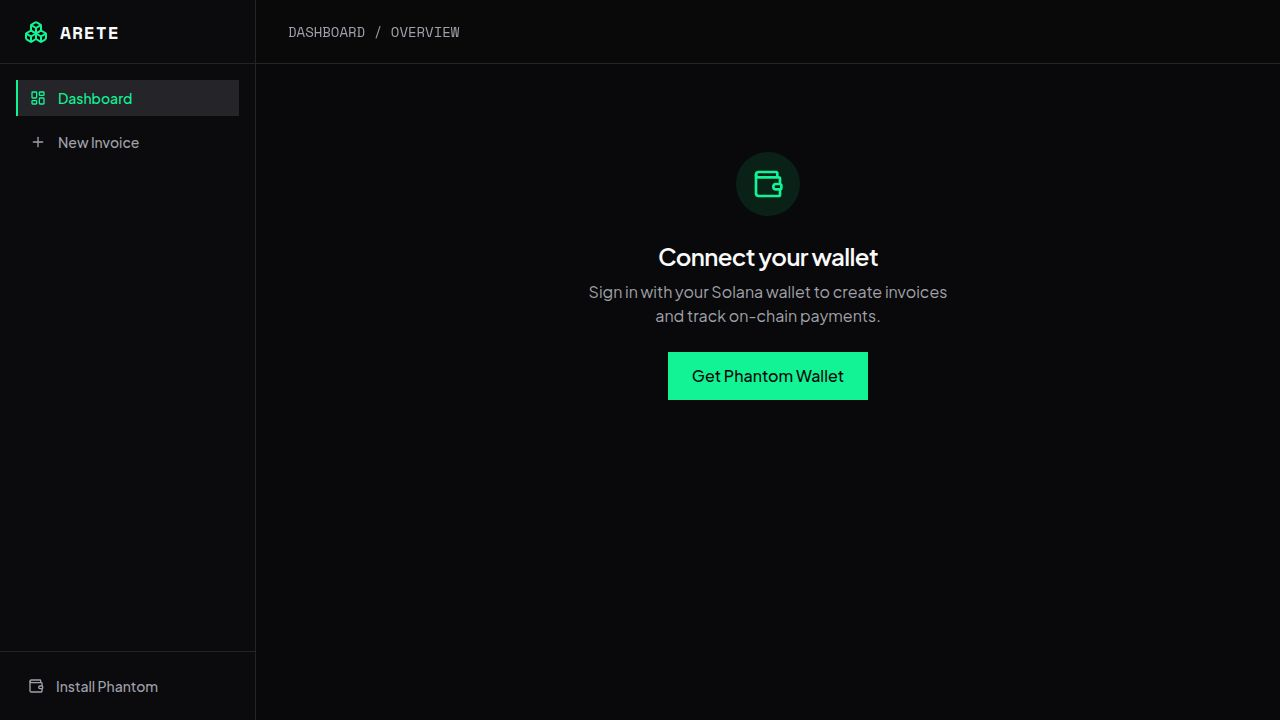
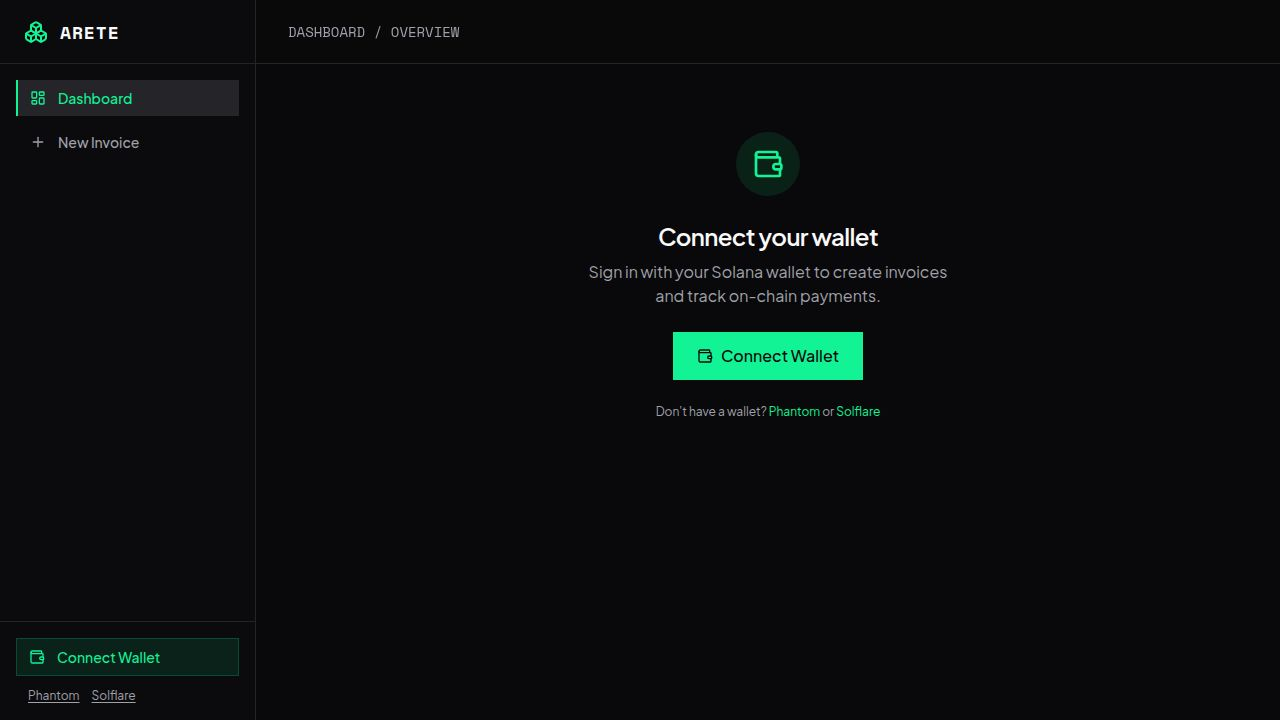
Improve login system by switching to token-based authentication
Update API and frontend to use localStorage and Bearer tokens for authentication, replacing unreliable cookie-based auth, especially for mobile browsers.

Replit-Commit-Author: Agent
Replit-Commit-Session-Id: 21984e5d-962c-4386-b513-6f671c9b777a
Replit-Commit-Checkpoint-Type: full_checkpoint
Replit-Commit-Event-Id: d4c9bc04-cd3d-4d1d-9eb7-5a2b5161e72c
Replit-Commit-Screenshot-Url: https://storage.googleapis.com/screenshot-production-us-central1/1e1901e2-4597-46dc-acf6-8f4fa4448a09/21984e5d-962c-4386-b513-6f671c9b777a/lG06eTP
Replit-Helium-Checkpoint-Created: true

Changed region(s): [[0.4688, 0.1833, 0.75, 0.5806], [0.0, 0.8861, 0.1875, 0.9778]]

diff --git a/artifacts/arete/src/contexts/AuthContext.tsx b/artifacts/arete/src/contexts/AuthContext.tsx
@@ -7,7 +7,7 @@ import {
   type ReactNode,
 } from "react";
 import { useQueryClient } from "@tanstack/react-query";
-import { getGetMeQueryKey } from "@workspace/api-client-react";
+import { getGetMeQueryKey, setAuthTokenGetter } from "@workspace/api-client-react";
 
 type SolanaProvider = {
   connect: (opts?: { onlyIfTrusted?: boolean }) => Promise<{ publicKey: { toBase58: () => string } }>;
@@ -24,6 +24,8 @@ declare global {
   }
 }
 
+const TOKEN_KEY = "arete_token";
+
 function getProvider(): SolanaProvider | null {
   if (window.phantom?.solana) return window.phantom.solana;
   if (window.solflare?.isSolflare) return window.solflare;
@@ -34,6 +36,28 @@ function toHex(bytes: Uint8Array): string {
   return Array.from(bytes)
     .map((b) => b.toString(16).padStart(2, "0"))
     .join("");
+}
+
+function saveToken(token: string): void {
+  try {
+    localStorage.setItem(TOKEN_KEY, token);
+  } catch {}
+  setAuthTokenGetter(() => token);
+}
+
+function clearToken(): void {
+  try {
+    localStorage.removeItem(TOKEN_KEY);
+  } catch {}
+  setAuthTokenGetter(null);
+}
+
+function loadStoredToken(): string | null {
+  try {
+    return localStorage.getItem(TOKEN_KEY);
+  } catch {
+    return null;
+  }
 }
 
 type AuthState = {
@@ -56,21 +80,36 @@ export function AuthProvider({ children }: { children: ReactNode }) {
   const queryClient = useQueryClient();
 
   useEffect(() => {
-    // Give wallet extensions ~300ms to inject into the page
-    const detectAndRestore = () => {
+    const init = async () => {
+      // Give wallet extensions ~300ms to inject
+      await new Promise((r) => setTimeout(r, 300));
       setWalletDetected(!!(window.phantom?.solana || window.solflare?.isSolflare));
 
-      fetch("/api/auth/me", { credentials: "include" })
-        .then((r) => (r.ok ? r.json() : null))
-        .then((data) => {
-          if (data?.wallet) setWallet(data.wallet);
-        })
-        .catch(() => {})
-        .finally(() => setIsLoading(false));
+      // Restore session from localStorage
+      const stored = loadStoredToken();
+      if (stored) {
+        setAuthTokenGetter(() => stored);
+        try {
+          const res = await fetch("/api/auth/me", {
+            headers: { Authorization: `Bearer ${stored}` },
+            credentials: "include",
+          });
+          if (res.ok) {
+            const data = await res.json();
+            setWallet(data.wallet);
+          } else {
+            // Token expired or invalid
+            clearToken();
+          }
+        } catch {
+          clearToken();
+        }
+      }
+
+      setIsLoading(false);
     };
 
-    const timer = setTimeout(detectAndRestore, 300);
-    return () => clearTimeout(timer);
+    init();
   }, []);
 
   const signIn = useCallback(async () => {
@@ -78,7 +117,6 @@ export function AuthProvider({ children }: { children: ReactNode }) {
     setIsLoading(true);
 
     try {
-      // Re-check at click time — extension may have loaded after mount
       const provider = getProvider();
       if (!provider) {
         setError(
@@ -119,6 +157,11 @@ export function AuthProvider({ children }: { children: ReactNode }) {
       }
 
       const data = await verifyRes.json();
+
+      // Store token in localStorage and register with customFetch
+      // This makes all React Query hooks send Authorization: Bearer <token>
+      // Works in mobile WebViews where cookies may be blocked
+      saveToken(data.token);
       setWallet(data.wallet);
       setWalletDetected(true);
       queryClient.invalidateQueries({ queryKey: getGetMeQueryKey() });
@@ -131,8 +174,9 @@ export function AuthProvider({ children }: { children: ReactNode }) {
   }, [queryClient]);
 
   const signOut = useCallback(async () => {
-    await fetch("/api/auth/logout", { method: "POST", credentials: "include" });
+    clearToken();
     setWallet(null);
+    await fetch("/api/auth/logout", { method: "POST", credentials: "include" });
     queryClient.clear();
   }, [queryClient]);
 

diff --git a/artifacts/api-server/src/routes/auth.ts b/artifacts/api-server/src/routes/auth.ts
@@ -71,8 +71,13 @@ router.post("/auth/verify", async (req, res): Promise<void> => {
   await supabase.from("nonces").delete().eq("id", nonceRow.id);
 
   const token = signJwt(wallet);
+
+  // Set httpOnly cookie for desktop browsers
   res.cookie(COOKIE_NAME, token, COOKIE_OPTS);
-  res.json({ wallet });
+
+  // Also return the token in the body so mobile WebViews (Phantom browser)
+  // can use localStorage + Authorization: Bearer instead of cookies
+  res.json({ wallet, token });
 });
 
 router.get("/auth/me", requireAuth, (req, res): void => {
